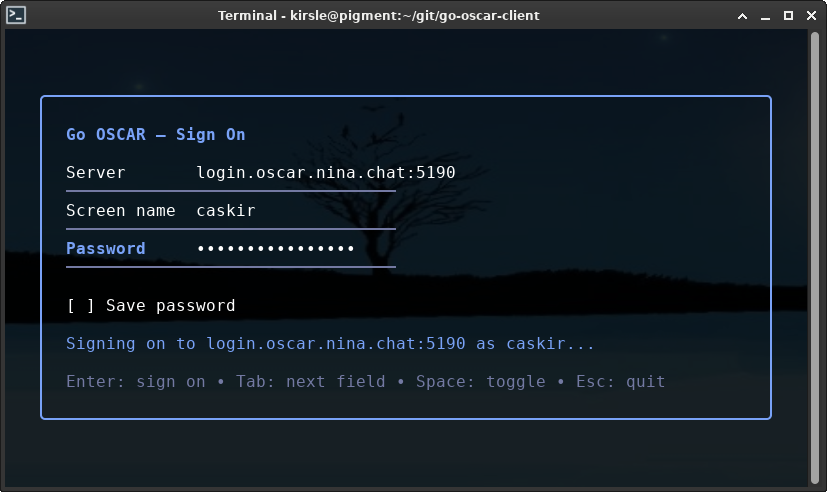
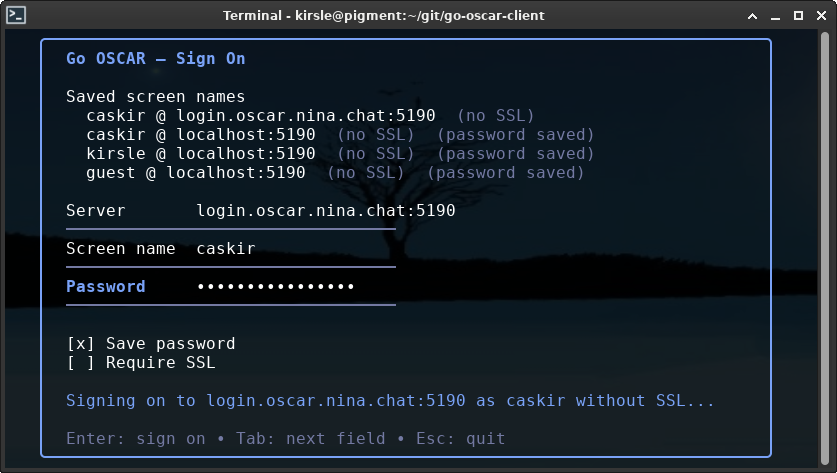
Update README and screenshots

diff --git a/README.md b/README.md
@@ -1,7 +1,7 @@
 # Go OSCAR Client
 
-An OSCAR (AOL Instant Messenger) instant messaging client written in Go: a
-reusable client library and an interactive terminal client built on it.
+An OSCAR (AOL Instant Messenger) client written in Go: a reusable client
+library and an interactive terminal client built on it.
 
 It speaks the OSCAR protocol used by classic AIM clients and is developed
 against [Open OSCAR Server](https://github.com/mk6i/open-oscar-server), whose
@@ -10,6 +10,32 @@ handshake of real AIM 5.x clients, so it should work with other OSCAR servers
 too.
 
 It has also been tested to work on the [NINA.chat OSCAR server](https://nina.chat).
+
+## Screenshots
+
+This project includes a terminal TUI client program for OSCAR.
+
+The login screen allows you to set the server, screen name and password, which
+can optionally be remembered, and your settings are saved to disk with servers
+and screen names remembered.
+
+![The login screen](screenshots/login.png)
+
+HTML formatting for messages and profile pages works by translating the HTML
+tags into ANSI codes. It is possible to manually write HTML in your messages,
+or use the `/font` command to set your persistent font styles. Sequences that
+are not valid HTML within the subset of tags supported by AIM will be sent
+escaped, so sequences like `<3` still send correctly as part of your message.
+
+![Instant messages with HTML formatting support](screenshots/chat.png)
+
+The main menu with contextual options:
+
+![The status screen and help menu](screenshots/menu.png)
+
+The status screen and /help command:
+
+![The status tab and output from the /help command](screenshots/help.png)
 
 ## Disclaimer: This project is written using A.I.
 
@@ -50,28 +76,6 @@ If you have an interest in OSCAR clients, it would be greatly appreciated if
 you could contribute one to the [Open OSCAR Server](https://github.com/mk6i/open-oscar-server)
 and then I could label this repository as obsolete in favor of an upstream
 client library that could be used instead.
-
-## Screenshots
-
-This project includes a terminal TUI client program for OSCAR.
-
-The login screen allows you to set the server, screen name and password, which
-can optionally be remembered, and your settings are saved to disk with servers
-and screen names remembered.
-
-![The login screen](screenshots/login.png)
-
-HTML formatting for messages and profile pages works by translating the HTML
-tags into ANSI codes. It is possible to manually write HTML in your messages,
-or use the `/font` command to set your persistent font styles. Sequences that
-are not valid HTML within the subset of tags supported by AIM will be sent
-escaped, so sequences like `<3` still send correctly as part of your message.
-
-![Instant messages with HTML formatting support](screenshots/im.png)
-
-Type `/help` to see available commands:
-
-![The status screen and help menu](screenshots/help.png)
 
 ## Terminal client
 
